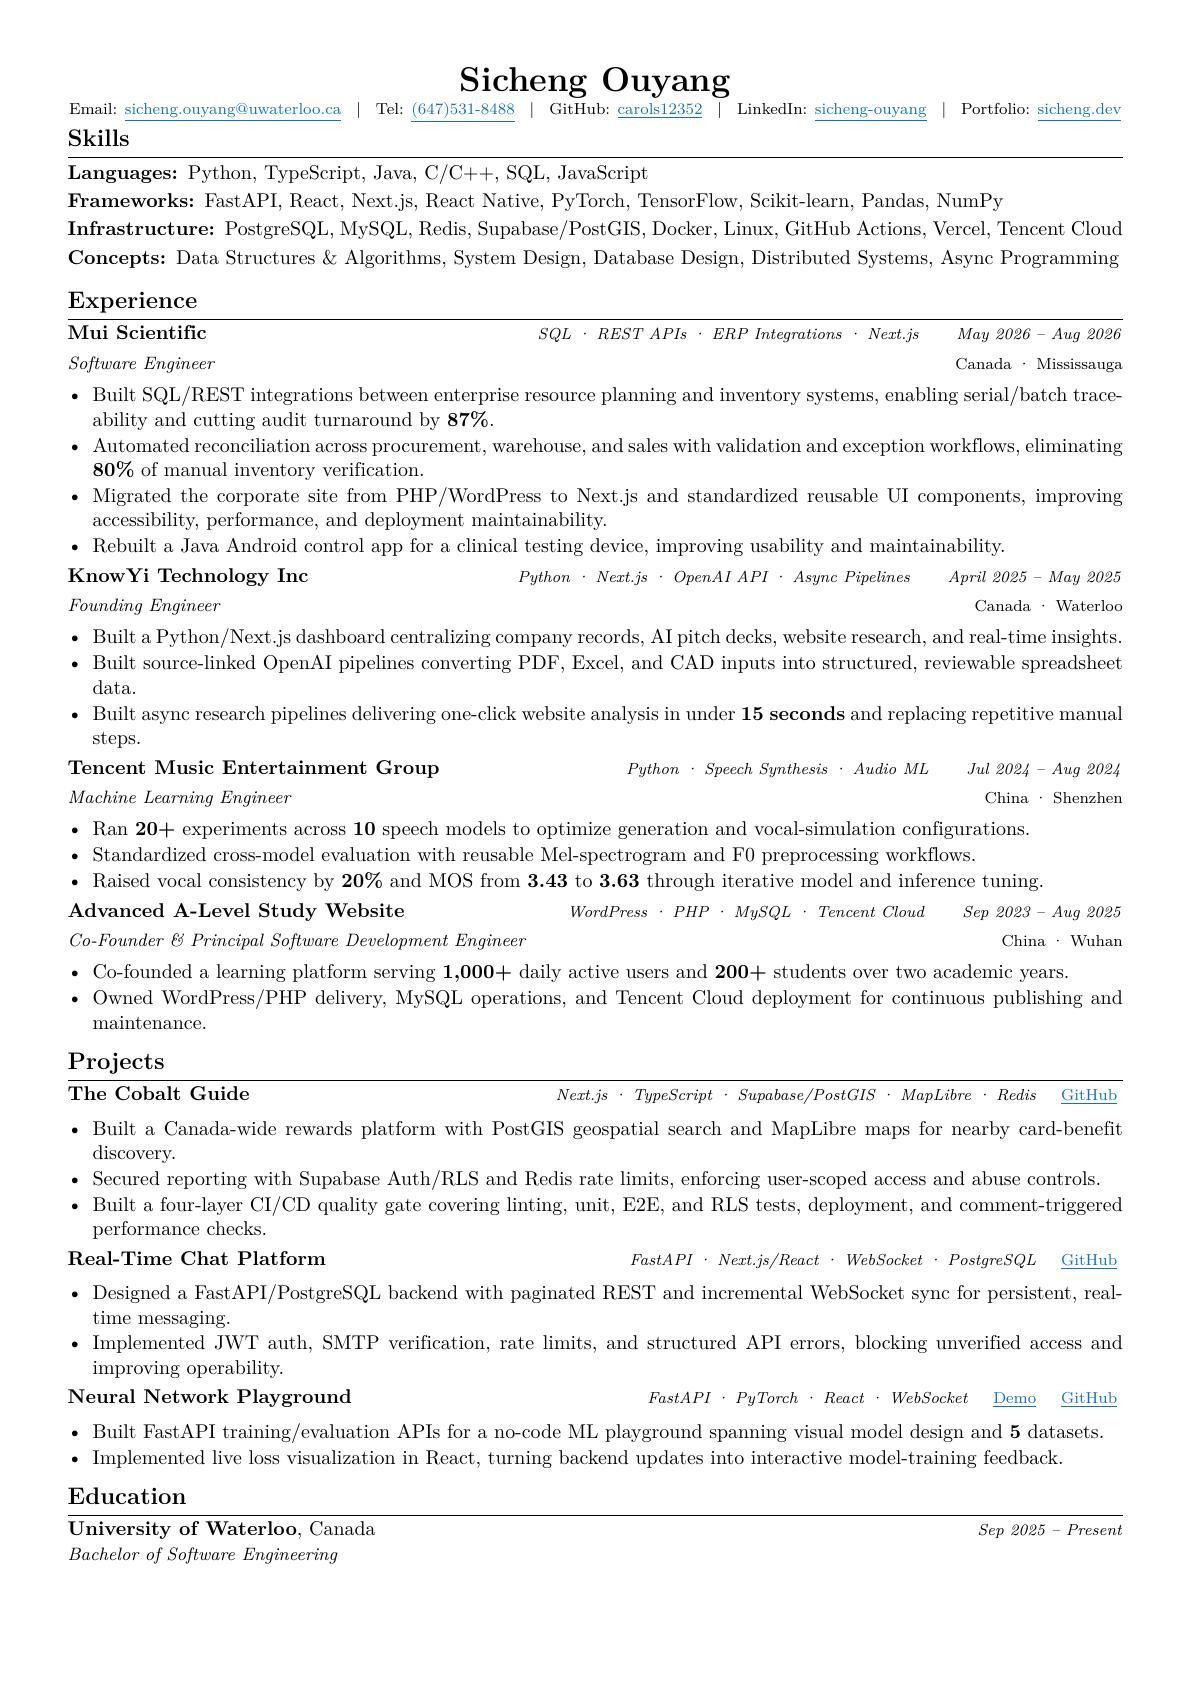
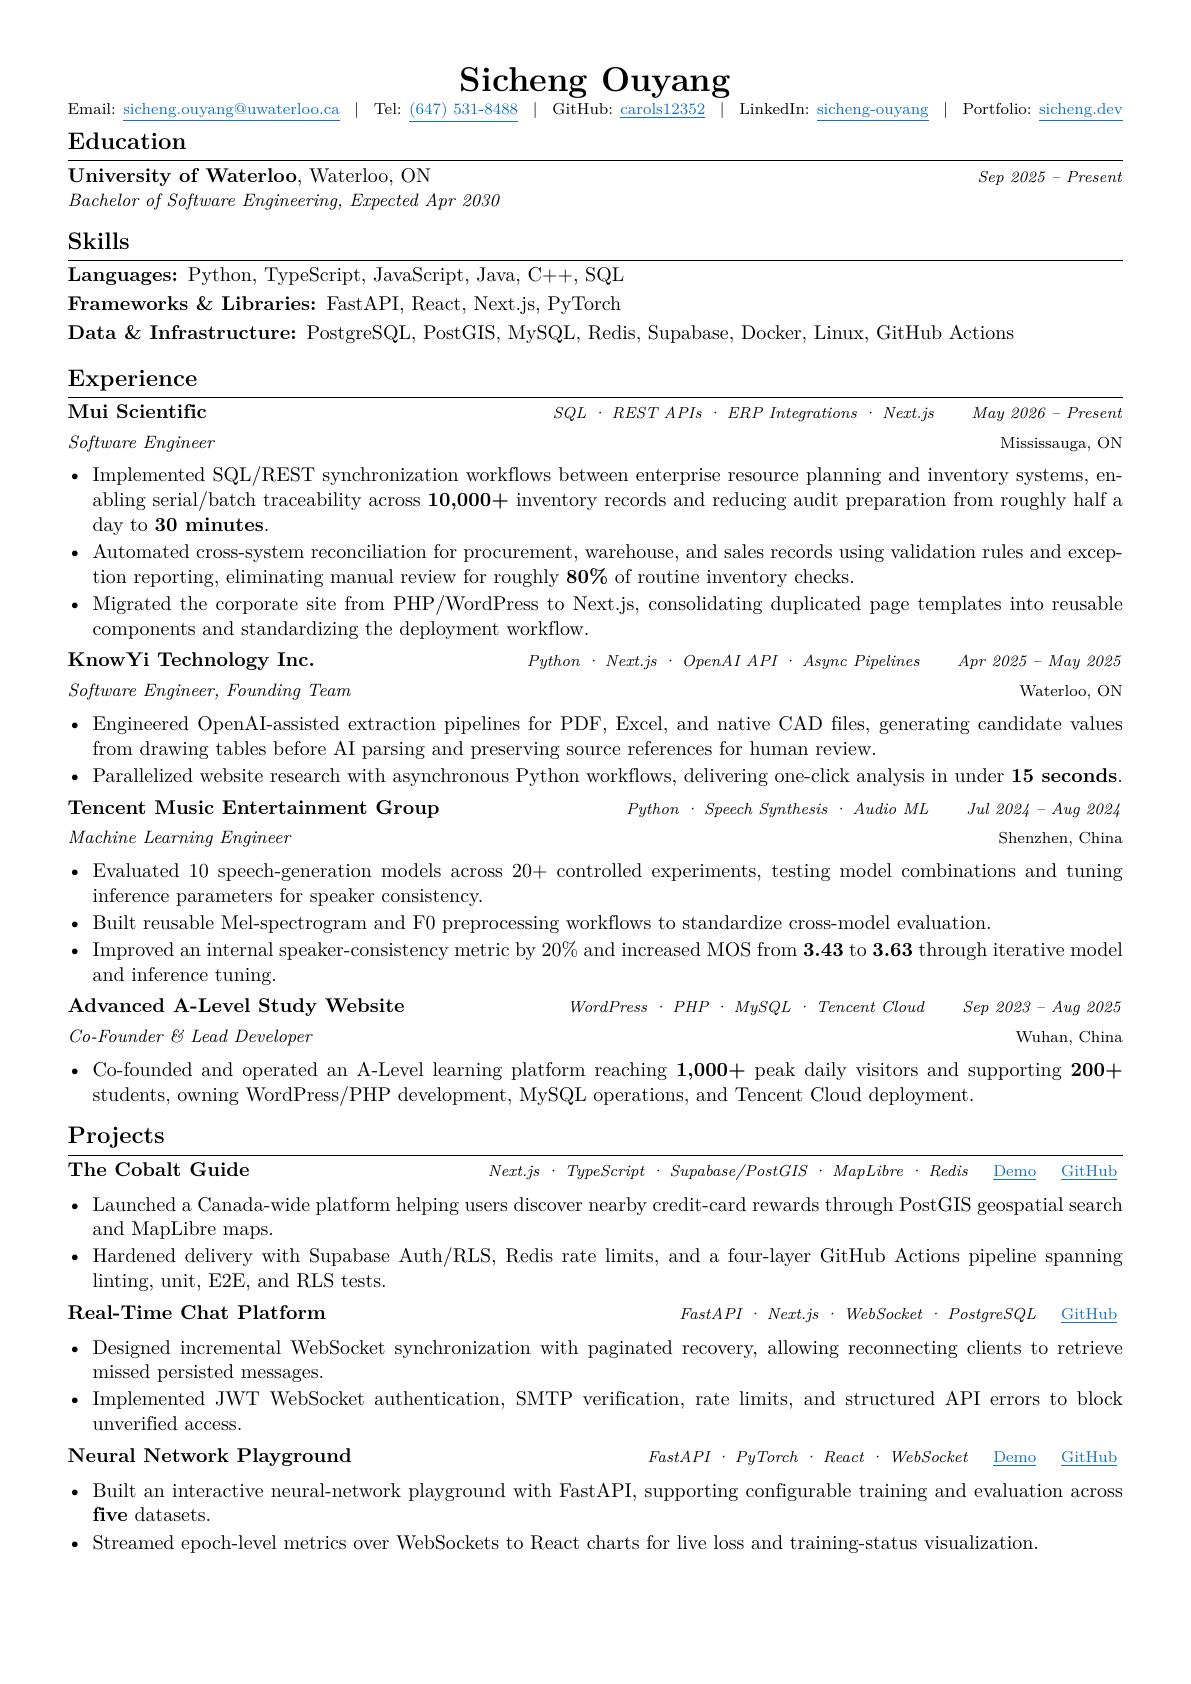
feat: updated resume of the website, added demo link for projects

Changed region(s): [[0.0621, 0.0618, 0.932, 0.9264]]

diff --git a/personal-site/content/projects.ts b/personal-site/content/projects.ts
@@ -5,6 +5,7 @@ export const projectEntries: ProjectEntry[] = [
     anchor: "the-cobalt-guide",
     period: "2026.05 - Present",
     name: "The Cobalt Guide",
+    demo: "https://thecobaltguide.vercel.app",
     repo: "https://github.com/carols12352/thecobaltguide",
     summary:
       "A Canada-wide rewards discovery platform with location-aware search, protected community reporting, and automated delivery checks.",
